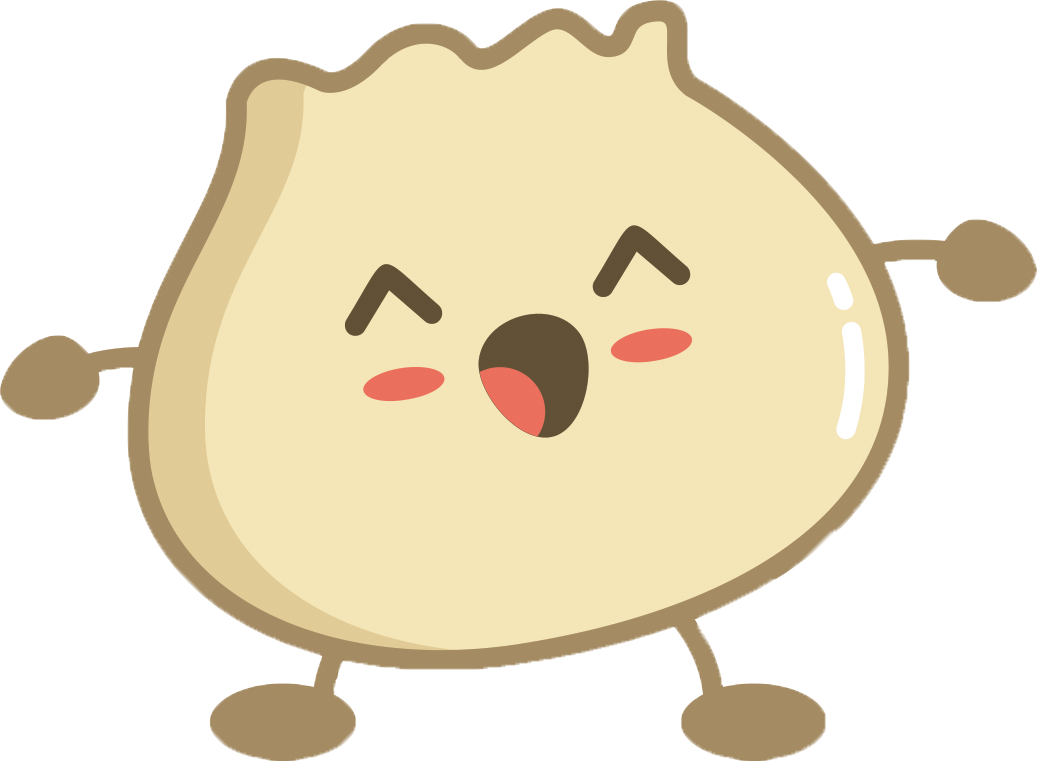
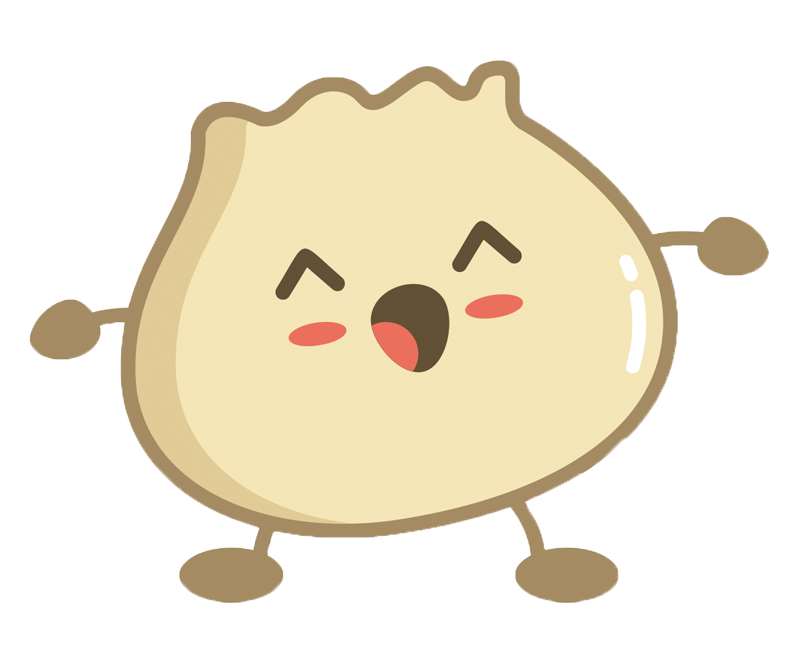
added jQuery event listener to animation end  for drop-shadow effect

Changed region(s): [[0.0, 0.0, 1.0, 1.0], [0.3125, 0.2765, 0.6875, 0.5837]]

diff --git a/script.js b/script.js
@@ -171,7 +171,6 @@ dumplingApp.submitChoices = function() {
 
       //get value of country button selected
       const countrySelected = $(this).val();
-      console.log(countryResults);
       countryResults.forEach(result => {
         if (result.origin === countrySelected) {
           $finalDumpling.empty();
@@ -195,8 +194,21 @@ dumplingApp.submitChoices = function() {
     }, 800);
   };
 
+  dumplingApp.headerEntry = function() {
+    console.log("glow is supposed to work here");
+    $('header img').addClass('glow');
+    $('header img').on('animationend webkitAnimationEnd', function() {
+      $('header img').addClass('imgSquare');
+    })
+  }
+
 
 dumplingApp.init = function() {
+
+  $('header.wrapper').on('animationend webkitAnimationEnd', function() {
+    dumplingApp.headerEntry();
+  })
+
 
   // SMOOTH ANIMATE SCROLLING - FROM VARIOUS W3 SCHOOLS + STACK OVERFLOW SOURCES  
   $('a').on('click', function (e) {
@@ -215,11 +227,12 @@ dumplingApp.init = function() {
       });
     }
   });
+    // to check for errors before proceeding
     dumplingApp.validateForm();
+    // to submit choices
     dumplingApp.submitChoices();
 };
 
 $(document).ready(function(){
   dumplingApp.init();
-
 });

diff --git a/styles/style.css b/styles/style.css
@@ -303,6 +303,13 @@ header .headerText {
       flex-shrink: 1;
 }
 
+header .glow {
+  -webkit-filter: drop-shadow(-5px 10px 10px #f4e6b7);
+          filter: drop-shadow(-5px 10px 10px #f4e6b7);
+  -webkit-transition-duration: .75s;
+          transition-duration: .75s;
+}
+
 [type=submit],
 .nextButtons {
   font-size: clamp(1.5rem, 2vw, 1.8rem);
@@ -324,21 +331,24 @@ a:hover {
 }
 
 input,
-[type=submit],
-a {
+.nextButtons,
+[type=submit]
+[type=radio] + label {
   border: 3px solid transparent;
 }
 
 input:hover,
-[type=submit]:hover,
-a:hover {
+.nextButtons:hover,
+[type=submit]
+[type=radio] + label:hover {
   -webkit-transform: scale(1.1);
           transform: scale(1.1);
 }
 
 input:focus,
-[type=submit]:focus,
-a:focus {
+.nextButtons:focus,
+[type=submit]
+[type=radio] + label:focus {
   border: 3px solid #eb6f5d;
   outline: none;
 }
@@ -504,19 +514,13 @@ footer {
   -ms-flex-wrap: wrap;
       flex-wrap: wrap;
   background-color: #333;
-  color: #fff;
   -ms-flex-pack: distribute;
       justify-content: space-around;
   margin: 0 auto;
 }
 
-footer a,
 footer p {
   font-size: 1.2rem;
-}
-
-footer a {
-  text-decoration: none;
   color: #fff;
 }
 

diff --git a/styles/sass/_general.scss b/styles/sass/_general.scss
@@ -64,6 +64,10 @@ header {
         flex-direction: column;
         flex-shrink: 1;
     }
+    .glow {
+        filter: drop-shadow(-5px 10px 10px $secondary);
+        transition-duration: .75s;
+    }
 }
 
 [type=submit],
@@ -89,8 +93,9 @@ a {
 }
 
 input,
-[type=submit],
-a {
+.nextButtons,
+[type=submit]
+[type=radio] + label {
     border: 3px solid transparent;
     &:hover {
         transform: scale(1.1);
@@ -211,16 +216,10 @@ footer {
     padding-bottom: 10px;
     flex-wrap: wrap;
     background-color: $dark;
-    color: $light;
     justify-content: space-around;
     margin: 0 auto;
-
-    a,
     p {
         font-size: 1.2rem;
-    }
-    a {
-        text-decoration: none;
         color: $light;
     }
 }

diff --git a/index.html b/index.html
@@ -14,9 +14,9 @@
 <body>
     <main>
         <header class="wrapper">
-            <div class="animate__animated animate__rollIn animate__slow">
-                <img src="assets/dumplingVecteezy.png" alt="an excited anthropomorphized dumpling from Vecteezy">
-            </div>
+            <!-- <div class="animate__animated animate__rollIn animate__slow"> -->
+                <img src="assets/dumplingVecteezy.png" class="animate__animated animate__rollIn animate__slow" alt="an excited anthropomorphized dumpling from Vecteezy">
+            <!-- </div> -->
             <div class="headerText">
                 <h1>Gimme a dumpling</h1>
                 <h2>find a new dumpling to cook!</h2>
